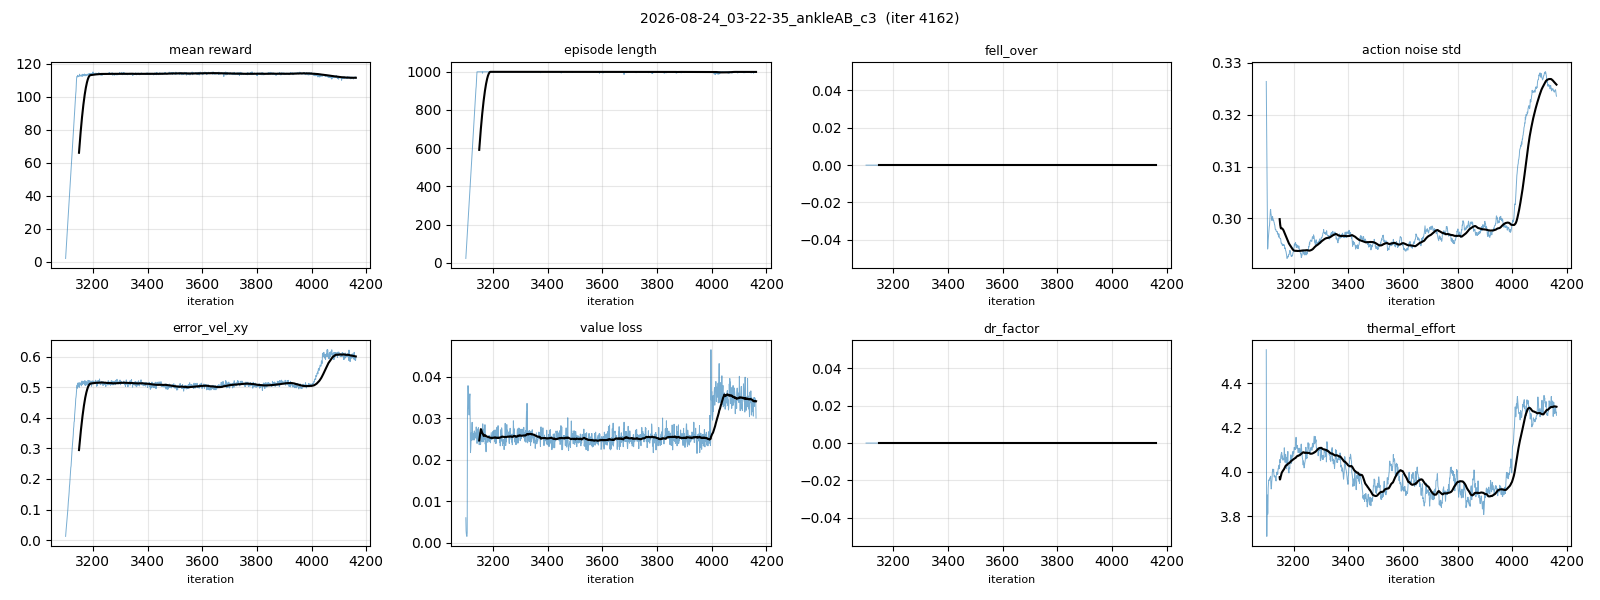
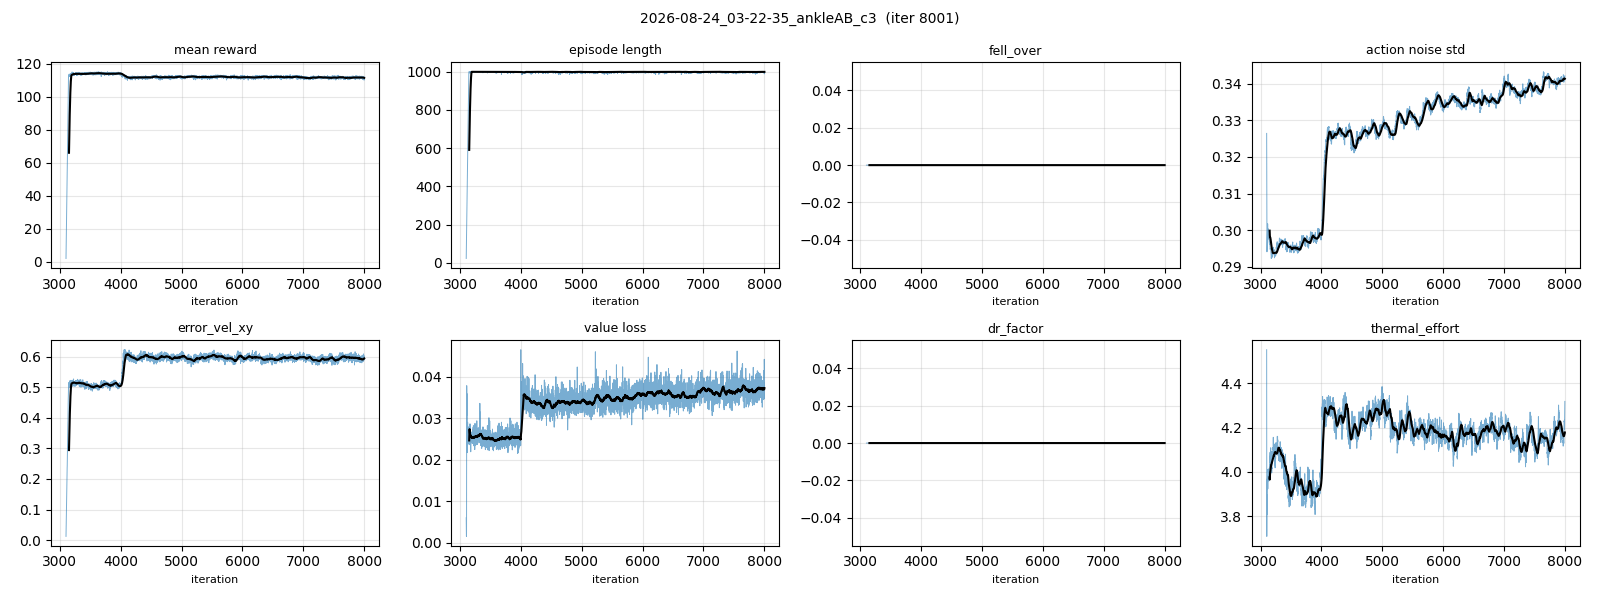
c3 gate 4000 measured: AB lands softer than RP (0.90 vs 1.14 m/s, 1.00 vs 1.22 BW peak), swing apex 0.092/0.081 m > 0.05 threshold -> keep w -1; docs/95 section 7 gate table

diff --git a/docs/66_experiment_registry.md b/docs/66_experiment_registry.md
@@ -114,7 +114,7 @@
 |---|---|---|---|
 | ~~ankleAB_c1 / ankleRP_c1~~ (`20-45-09/27`, ✗ iter 172 중단) | 팔이 영점(매달림)으로 weld → hip_roll 링크와 14 mm 관통 | — | ✗ 상체 팔 15° 외전 고정 후 c2로 재시작 |
 | (config-test) ankleAB_softtest / softtest2 [[2026-08-24_ankleAB_softtest]] [[2026-08-24_ankleAB_softtest2]] (02:00 / 02:43, c2r 3100+800 iter, 1024 env) | soft-landing 항 형태: 선형 w −2 vs 제곱 w −1 | 접지속도 1.24 → **2.42**(선형, 해킹) / **0.98**(제곱) m/s; 피크 1.50 → 1.66 / 1.31 BW | 선형 기각·제곱 채택 → c3 |
-| **ankleAB_c3 / ankleRP_c3** "flat-2.5max gen21-bundle+**soft-landing** curriculum-dr+push ankle-AB / -RP (2026-08-24)" (`03-22-35` / `03-22-58`, 🔄학습중, 각 model_3100에서 warm-start, 총 32k) [[2026-08-24_ankleAB_c3]] [[2026-08-24_ankleRP_c3]] | c2 + `PYG_SOFT_LANDING` (foot_impact_velocity Σrelu(−v_z)²·[h<0.10∧공중] w −1, contact_force_cap 420/560 N) — 두 arm 동일, 3100까지 이력 동일 | 시험(AB 3100+800, 1024env): 접지속도 1.24→0.98 m/s, GRF 피크 1.50→1.31 BW, 추종 유지, 스윙높이 0.116→0.080 m(감시) | 🔄 게이트 4k/8k에서 impact_probe+hack_check; 선형형은 해킹(2.42 m/s)으로 기각 — [[95_soft_landing_prescription]] |
+| **ankleAB_c3 / ankleRP_c3** "flat-2.5max gen21-bundle+**soft-landing** curriculum-dr+push ankle-AB / -RP (2026-08-24)" (`03-22-35` / `03-22-58`, 🔄학습중, 각 model_3100에서 warm-start, 총 32k) [[2026-08-24_ankleAB_c3]] [[2026-08-24_ankleRP_c3]] | c2 + `PYG_SOFT_LANDING` (foot_impact_velocity Σrelu(−v_z)²·[h<0.10∧공중] w −1, contact_force_cap 420/560 N) — 두 arm 동일, 3100까지 이력 동일 | 시험(AB 3100+800, 1024env): 접지속도 1.24→0.98 m/s, GRF 피크 1.50→1.31 BW, 추종 유지, 스윙높이 0.116→0.080 m(감시) | 🔄 4k 게이트(§95 §7): AB 접지 0.90 m/s·피크 1.00 BW·스윙 0.092 m / RP 1.14·1.22·0.081 — 해킹징후 0, w −1 유지. 선형형은 해킹(2.42 m/s)으로 기각 — [[95_soft_landing_prescription]] |
 | **ankleAB_c2 → c2r** "flat-2.5max gen21-bundle curriculum-dr+push ankle-AB-loop (2026-08-23)" (`21-02-10` → OOM iter1252 → `23-17-35_ankleAB_c2r` resume model_1200, ⏸ iter 4400에서 중단 → c3로 계승) [[2026-08-23_ankleAB_c2]] | vs gen21_bent_p2: 프린트 질량·실측 모터(RS04 J .0163/b .0095/tc .269, RS03 .0153/.0223/.285)·T-N 곡선·**폐루프 발목(크랭크 RS03 ×2, Kp 22.3/Kd 1.41/60 N·m)**·단일 런 커리큘럼(DR 10k→20k, vx 단계 2.5@16k)·16384 env·상체 weld+팔 15° 외전 고정·hip_yaw ±45° | iter 610: reward 109·fell 0; iter 1200 분석(93 §5b): 보행 발목 17° 사용·토크 12.8 N·m·GRFc 1.39 BW, **정지 잔떨림+0.4 Hz 스웨이**; 최신 스냅샷 iter 2659(08-24 01:22): reward 114.1(50avg 114.4)·fell 0.000·err_vel_xy 0.509·thermal 4.02 | 🔄 CONTINUE (4k 게이트서 정지 떨림 재확인) |
 | (분석) 폐루프 구속 강성 solimp 전례·변인통제 [[94_loop_constraint_stiffness]] (2026-08-24) | 같은 AB 정책, 구속만 0.9→0.9999 5단계 | 튐 |Δτ| p99: 기본 18.0 / 0.99–0.9999 11–12 N·m, 폐루프 오차 8.4→0.08 mm | 0.999 유지; 학습 A/B(0.95/0.99·solref 5 ms, BRUCE 데드밴드)는 본런 후 |
 | **ankleRP_c2** "flat-2.5max gen21-bundle curriculum-dr+push ankle-RP-serial (2026-08-23)" (`2026-08-23_21-02-18`, ⏸ iter 3400에서 중단 → c3로 계승) [[2026-08-23_ankleRP_c2]] | ankleAB_c2와 **단일변인 = 발목 기구**: 직렬 pitch/roll(Kp 28.5/Kd 1.81) + 루프 자코비안 크랭크공간 클램프(±60, T-N) + 반영 관성/마찰. env.yaml diff = 발목 항목만(launch 직후 확인) | iter 610: reward 113·fell 0; iter 1200 분석: 발목 10° 사용·**bang-bang 목표(−40↔+35°) PD 포화 토크 스파이크**·GRFc 1.51 BW; 최신 스냅샷 iter 3433(08-24 02:22): reward 113.5(50avg 113.8)·fell 0.000·err_vel_xy 0.509·thermal 3.56 | 🔄 CONTINUE |

diff --git a/docs/95_soft_landing_prescription.md b/docs/95_soft_landing_prescription.md
@@ -74,3 +74,19 @@
 - `foot_impact_velocity`: Σ_feet relu(−v_z)^**2** · [h_sole<0.10 ∧ F<7 N], 명령 게이트, w −1.0 (LimX −0.15×tracking 1 ↔ 우리 tracking 1.8+1.0 스케일 고려).
 - `contact_force_cap`: 420 N / clip 560 N (역치·클립 비율 1.33 유지 — B1 교훈).
 - 감시 지표(해킹 방지): air_time·클리어런스·stride·정지 발 움직임·knee 토크·추종 — §4 표와 동일 프로브를 게이트(4k·8k)마다.
+
+## 7. 게이트 감시 표 (c3 본런, `impact_probe.py` 200 Hz + `hack_check.py`)
+기준선 = c2 model_3100(soft-landing 이전) / 시험 2 = +800 iter 시험. 이하 각 행은 해당 iter 체크포인트를 CPU에서 재생(0/0.4/0.8 m/s, 8 s each).
+
+| iter (커리큘럼) | arm | 접지속도 중앙 / p90 [m/s] | GRF 피크 중앙 / max [BW] | 하중률 중앙 [BW/s] | GRFc p99 @0.8 [BW] | 스윙 최고높이 @0.4 / 0.8 [m] | vx 오차 0.4 / 0.8 | duty / stride @0.8 | 정지 발 움직임 [m/s] | 판정 |
+|---|---|---|---|---|---|---|---|---|---|---|
+| 3100 기준 | AB | 1.24 / 1.36 | 1.50 / — | 151 | 1.57 | 0.091 / 0.116 | 0.082 / 0.075 | — / 0.60 m | 0.007 | (soft-landing 이전) |
+| 3900 시험2 | AB | 0.98 / 1.33 | 1.31 / — | 204 | 1.23 | 0.036 / 0.080 | 0.040 / 0.085 | — / 0.67 m | 0.011 | 채택 |
+| **4000** (vx 1.2) | **AB** | **0.90 / 1.34** | **1.00 / 1.37** | 112 | 1.40 | 0.029 / **0.092** | 0.048 / 0.117 | 0.52 / 0.64 m | 0.009 | ✅ CONTINUE |
+| **4000** (vx 1.2) | **RP** | **1.14 / 1.36** | **1.22 / 1.61** | 137 | 1.38 | 0.014 / **0.081** | 0.043 / 0.094 | 0.51 / 0.67 m | 0.004 | ✅ CONTINUE |
+
+**4000 게이트 판독**
+- 두 arm 모두 **스윙 최고높이 @0.8 ≥ 0.08 m** — 감시 역치 0.05 m 위, w −1.0 유지(−0.5 재시작 불필요). @0.4는 AB 0.029 / RP 0.014 m로 낮지만, 저속에서는 c2 기준선(0.091)도 밴드(h 0.10) 안쪽이라 벌점이 항상 걸리는 구간 → 발을 끌지 않는지(stance_slip·flight_frac)로 판단: 미끄럼 0.07–0.11 m/s, 비행구간 0, 보폭 0.34–0.35 m로 정상 스텝.
+- **AB가 RP보다 부드럽게 착지**: 접지속도 0.90 vs 1.14 m/s(−21 %), 피크 1.00 vs 1.22 BW(−18 %), 하중률 112 vs 137 BW/s. 발목 폐루프(크랭크)의 반사관성·감쇠가 접지 순간을 완충하는 쪽으로 해석 — stage 2 공통공간 비교에서 재확인할 것.
+- **AB 오른발 200 Hz max 3.54 BW 1회**(median 1.00, p90 1.22) — 29 이벤트 중 단발 스파이크. 사이징에는 p99 사용(1.15–1.17 BW), 단 8k 게이트에서 재발하면 접촉·루프 구속 상호작용([[94_loop_constraint_stiffness]])으로 조사.
+- 해킹 징후 없음: 비행구간 0(점프 아님), 정지 시 duty 1.00/0.996·발 움직임 ≤0.009 m/s(제자리 종종거림 아님), 발목 pitch 가동 14.2–14.8°(발목 잠금 아님), 추종 오차 0.09–0.12 @0.8(vx 1.2 커리큘럼 전환 직후 값).

diff --git a/docs/experiments/2026-08-24_ankleAB_c3.md b/docs/experiments/2026-08-24_ankleAB_c3.md
@@ -18,3 +18,9 @@
 | 08-24 04:15 | 3739 | 114.9 (50avg 114.1) | 1000 | 0.296 | 0.0252 | 1.22 | -0.0041 / 6.7e-04 | 0.000 / 0.000 | 0.520 / 0.431 | 0.00 / 0.8 | 3.87 | c3 첫 게이트(warm-start 3100 + soft-landing, iter ~3700): reward 114 복귀(soft-landing 추가 직후 101→114, 딥 회복), fell 0, err_vel 0.50, impact_vel_mean 0.15 m/s(밴드 내 평균) → CONTINUE; 4000 게이트(vx 1.2)에서 impact_probe/hack_check |
 | 08-24 04:27 | 3878 | 113.9 (50avg 114.1) | 1000 | 0.297 | 0.0284 | 1.26 | -0.0030 / 4.4e-04 | 0.000 / 0.000 | 0.509 / 0.429 | 0.00 / 0.8 | 3.89 | (자동 스냅샷, 판정은 게이트 리뷰에서) |
 | 08-24 04:50 | 4162 | 111.3 (50avg 111.6) | 1000 | 0.324 | 0.03 | 2.32 | -0.0045 / 6.7e-04 | 0.000 / 0.000 | 0.595 / 0.475 | 0.00 / 1.2 | 4.25 | 4000 게이트 통과(vx 1.2 전환): reward 114.9→111.8 딥·err_vel 0.51→0.61, fell 0 유지 → 예상된 커리큘럼 딥, CONTINUE; model_4000에 impact_probe+hack_check 수행(§95 §7) |
+| 08-24 05:27 | 4599 | 112.0 (50avg 112.2) | 1000 | 0.324 | 0.0328 | 2.38 | -0.0036 / 4.4e-04 | 0.000 / 0.000 | 0.581 / 0.475 | 0.00 / 1.2 | 4.17 | (자동 스냅샷, 판정은 게이트 리뷰에서) |
+| 08-24 06:27 | 5321 | 112.1 (50avg 112.1) | 1000 | 0.330 | 0.0376 | 2.54 | -0.0046 / 4.4e-04 | 0.000 / 0.042 | 0.598 / 0.480 | 0.00 / 1.2 | 4.27 | (자동 스냅샷, 판정은 게이트 리뷰에서) |
+| 08-24 07:27 | 6043 | 112.5 (50avg 112.0) | 1000 | 0.335 | 0.0365 | 2.71 | -0.0041 / 6.7e-04 | 0.000 / 0.042 | 0.597 / 0.480 | 0.00 / 1.2 | 4.16 | (자동 스냅샷, 판정은 게이트 리뷰에서) |
+| 08-24 08:27 | 6765 | 111.7 (50avg 112.1) | 1000 | 0.336 | 0.0339 | 2.77 | -0.0044 / 5.8e-04 | 0.000 / 0.000 | 0.598 / 0.480 | 0.00 / 1.2 | 4.23 | (자동 스냅샷, 판정은 게이트 리뷰에서) |
+| 08-24 09:27 | 7486 | 112.0 (50avg 111.7) | 1000 | 0.339 | 0.0366 | 2.91 | -0.0049 / 5.8e-04 | 0.000 / 0.000 | 0.580 / 0.485 | 0.00 / 1.2 | 4.14 | (자동 스냅샷, 판정은 게이트 리뷰에서) |
+| 08-24 10:10 | 8001 | 110.8 (50avg 111.6) | 996 | 0.342 | 0.0417 | 3.02 | -0.0053 / 5.8e-04 | 0.000 / 0.042 | 0.599 / 0.489 | 0.00 / 1.6 | 4.32 | vx1.2 구간 안정화(4.2k→8k): reward 111.8→112.0·err_vel 0.61→0.59 회복, fell 0, thermal 4.16 → CONTINUE. 4000 게이트 측정 완료(접지 0.90 m/s·피크 1.00 BW·스윙 0.092 m, docs/95 §7) — 해킹 징후 없음 |

diff --git a/docs/experiments/2026-08-24_ankleRP_c3.md b/docs/experiments/2026-08-24_ankleRP_c3.md
@@ -18,3 +18,9 @@
 | 08-24 04:15 | 3731 | 114.5 (50avg 114.3) | 1000 | 0.292 | 0.025 | 1.16 | -0.0043 / 6.7e-04 | 0.000 / 0.000 | 0.514 / 0.428 | 0.00 / 0.8 | 3.35 | c3 첫 게이트(warm-start 3100 + soft-landing, iter ~3700): reward 114 복귀(soft-landing 추가 직후 101→114, 딥 회복), fell 0, err_vel 0.50, impact_vel_mean 0.15 m/s(밴드 내 평균) → CONTINUE; 4000 게이트(vx 1.2)에서 impact_probe/hack_check |
 | 08-24 04:27 | 3870 | 114.5 (50avg 114.4) | 1000 | 0.293 | 0.0271 | 1.15 | -0.0031 / 4.4e-04 | 0.000 / 0.000 | 0.509 / 0.426 | 0.00 / 0.8 | 3.32 | (자동 스냅샷, 판정은 게이트 리뷰에서) |
 | 08-24 04:50 | 4154 | 110.7 (50avg 111.7) | 993 | 0.320 | 0.0341 | 2.30 | -0.0036 / 6.7e-04 | 0.000 / 0.083 | 0.588 / 0.474 | 0.00 / 1.2 | 3.57 | 4000 게이트 통과(vx 1.2 전환): reward 114.5→112.5 딥·err_vel 0.50→0.60, fell 0 유지 → 예상된 커리큘럼 딥, CONTINUE; model_4000에 impact_probe+hack_check 수행(§95 §7) |
+| 08-24 05:27 | 4591 | 111.6 (50avg 111.8) | 1000 | 0.324 | 0.0327 | 2.43 | -0.0048 / 3.0e-04 | 0.000 / 0.000 | 0.610 / 0.482 | 0.00 / 1.2 | 3.61 | (자동 스냅샷, 판정은 게이트 리뷰에서) |
+| 08-24 06:27 | 5313 | 111.4 (50avg 111.6) | 1000 | 0.328 | 0.0347 | 2.56 | -0.0049 / 5.8e-04 | 0.000 / 0.000 | 0.587 / 0.479 | 0.00 / 1.2 | 3.66 | (자동 스냅샷, 판정은 게이트 리뷰에서) |
+| 08-24 07:27 | 6035 | 111.9 (50avg 112.0) | 1000 | 0.331 | 0.0384 | 2.69 | -0.0045 / 5.8e-04 | 0.000 / 0.000 | 0.594 / 0.481 | 0.00 / 1.2 | 3.64 | (자동 스냅샷, 판정은 게이트 리뷰에서) |
+| 08-24 08:27 | 6757 | 111.8 (50avg 111.4) | 1000 | 0.336 | 0.0332 | 2.86 | -0.0054 / 3.8e-04 | 0.000 / 0.000 | 0.602 / 0.491 | 0.00 / 1.2 | 3.61 | (자동 스냅샷, 판정은 게이트 리뷰에서) |
+| 08-24 09:27 | 7479 | 111.9 (50avg 111.7) | 1000 | 0.336 | 0.0359 | 2.90 | -0.0055 / 5.8e-04 | 0.000 / 0.000 | 0.587 / 0.484 | 0.00 / 1.2 | 3.67 | (자동 스냅샷, 판정은 게이트 리뷰에서) |
+| 08-24 10:10 | 7993 | 111.4 (50avg 111.6) | 1000 | 0.340 | 0.0367 | 3.02 | -0.0049 / 5.8e-04 | 0.000 / 0.000 | 0.592 / 0.491 | 0.00 / 1.2 | 3.66 | vx1.2 구간 안정화(4.2k→8k): reward 112.5→111.4·err_vel 0.60→0.59, fell 0 → CONTINUE. 4000 게이트 측정 완료(접지 1.14 m/s·피크 1.22 BW·스윙 0.081 m) — AB보다 착지 21% 거침, docs/95 §7 |
